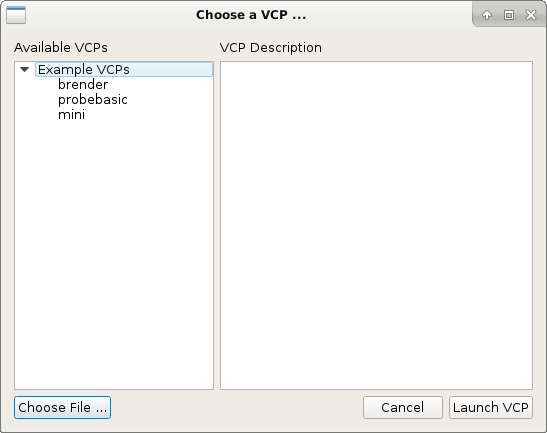
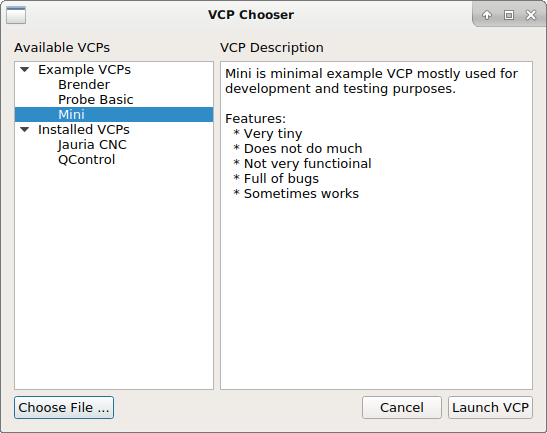
DOC: update basic usage and add new vcp chooser image

diff --git a/docs/source/basic_usage.rst b/docs/source/basic_usage.rst
@@ -9,8 +9,6 @@ Launching a sim config
 Several sim configurations are included with QtPyVCP, they should have been
 copied to your `~/linuxcnc/configs` directory when you installed QtPyVCP.
 
-.. These are intended to be run from a
-.. terminal with the working directory as the project root.
 
 **Included sim configs**::
 
@@ -32,12 +30,12 @@ available VCPs.
 
     VCP Chooser dialog window
 
-**Note:** _If there are no VCPs listed, most likely you did not run
+**Note:** If there are no VCPs listed, most likely you did not run
 `setup.py` per the installation instructions.
 
 To skip the VCP chooser and launch a VCP directly you can specify the name of
 the desired VCP on the command line. For example to launch the Mini VCP:
-`linuxcnc sim/xyz.ini mini`
+``linuxcnc sim/xyz.ini mini``
 
 
 INI Configuration
